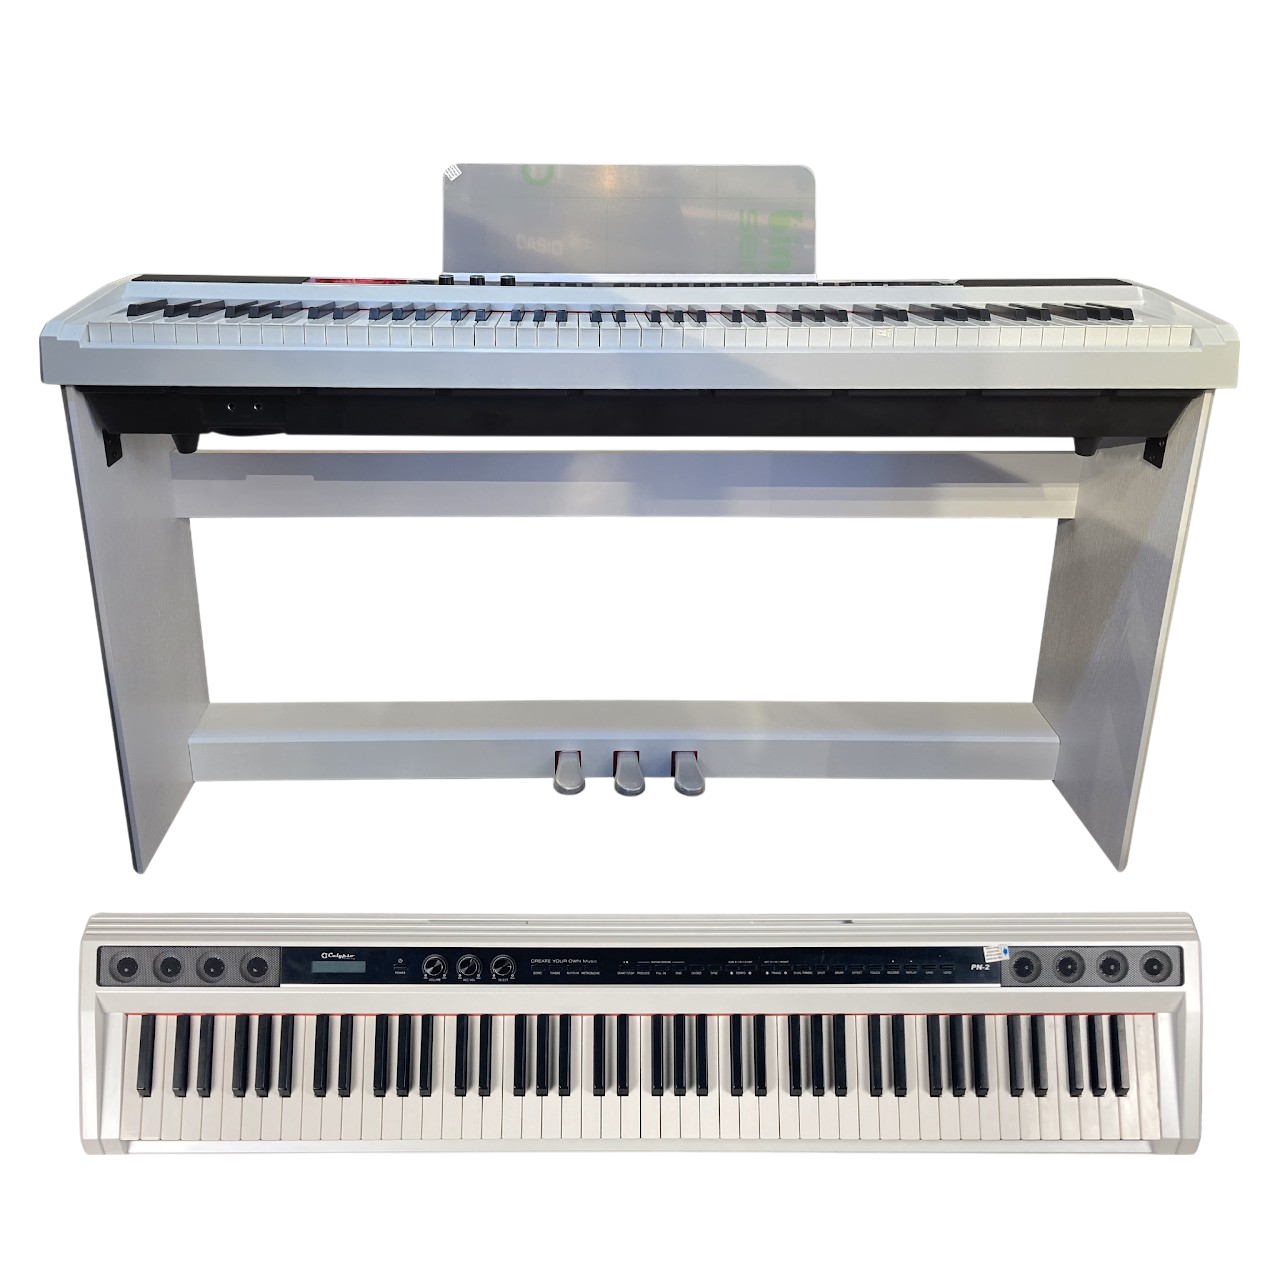
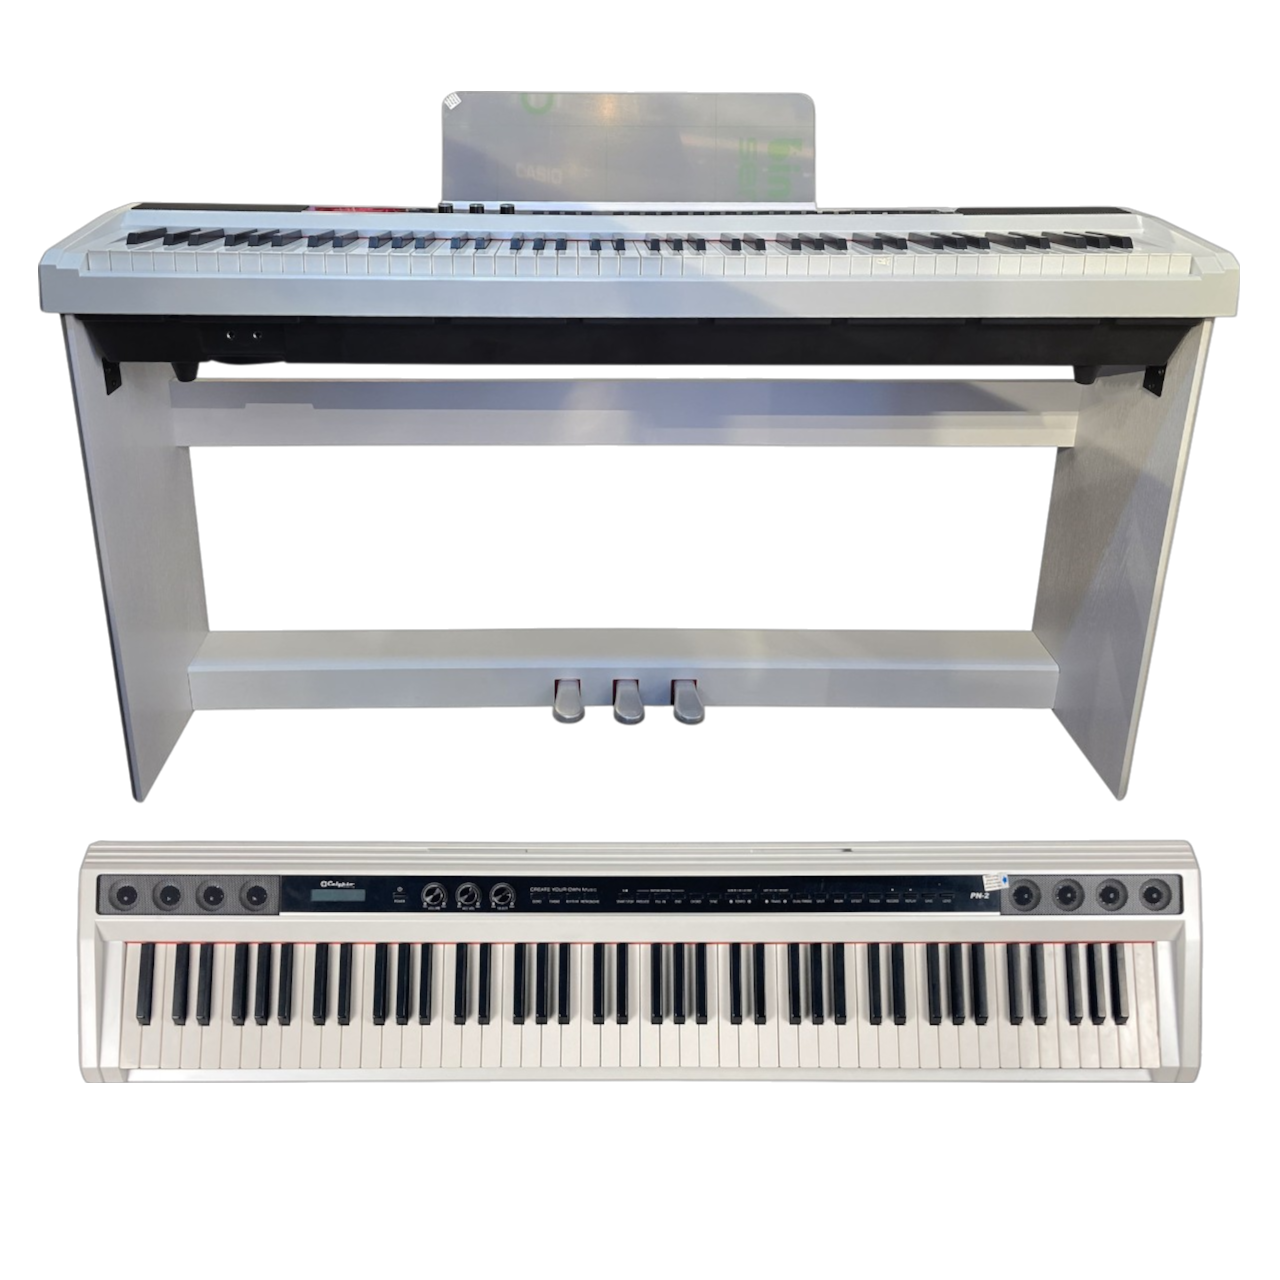
more adjustments

diff --git a/calypso-website/src/data/items.js b/calypso-website/src/data/items.js
@@ -371,7 +371,7 @@ const ITEMS = [
     pictureUrl: [],
   },
   {
-    name: "Calypso Folk (38 Inches)",
+    name: "Acoustic Guitar FG38",
     id: "FG38",
     description:
       "Immerse yourself in the rich, soulful melodies with the Guitar Calypso Folk (38 Inches). Its impeccable sound quality will transport you to a world of musical bliss. The comfortable size makes it perfect for musicians of all levels, while the classic design adds a touch of elegance to your performance. Elevate your music experience with this exceptional guitar today!",
@@ -380,7 +380,7 @@ const ITEMS = [
     pictureUrl: ["/images/guitars/Acoustic/FG38.png"],
   },
   {
-    name: "Calypso Folk 140MAS",
+    name: "Acoustic Guitar 140MAS",
     id: "140MAS",
     description:
       "Immerse yourself in the rich tones of the Guitar Calypso Folk 140MAS, crafted for both elegance and comfort. Made with durable materials, this guitar ensures a lasting musical companion for your creative journey. Elevate your playing experience with the perfect blend of style and functionality â€“ strum away with the Guitar Calypso Folk 140MAS!",
@@ -389,7 +389,7 @@ const ITEMS = [
     pictureUrl: ["/images/guitars/Acoustic/140MAS.png"],
   },
   {
-    name: "Calypso Folk Black (38 Inches)",
+    name: "Acoustic Guitar FG38-BK",
     id: "FG38-BK",
     description:
       "Unleash your musical creativity with the Guitar Calypso Folk Black! This stunning 38-inch guitar offers a versatile sound that will elevate your music to new heights. Its classic design exudes elegance, while the comfortable size makes it perfect for musicians of all levels. Dive into the world of music with the Guitar Calypso Folk Black â€“ a must-have for any aspiring guitarist!",
@@ -398,7 +398,7 @@ const ITEMS = [
     pictureUrl: ["/images/guitars/Acoustic/FG38-BK.png"],
   },
   {
-    name: "Calypso Folk Intermediate (41 Inches)",
+    name: "Acoustic Guitar FG41-INT",
     id: "FG41-INT",
     description:
       "Unleash your musical creativity with the Guitar Calypso Folk Intermediate (41 Inches). Experience its versatile sound that adapts to various music genres, making it a must-have for aspiring musicians. Crafted with precision and care, this guitar offers exceptional quality and durability. Elevate your playing experience with the comfortable size and superior craftsmanship of this instrument.",
@@ -407,7 +407,7 @@ const ITEMS = [
     pictureUrl: ["/images/guitars/Acoustic/FG41-INT.png"],
   },
   {
-    name: "Calypso Folk Intermediate (42 Inches)",
+    name: "Acoustic Guitar FG42-INT",
     id: "FG42-INT",
     description:
       "Unleash your musical creativity with the Guitar Calypso Folk Intermediate! Dive into a world of versatile sounds that will captivate your audience. Designed for ease of play, this 42-inch guitar offers a smooth playing experience for musicians of all levels. Crafted with durable construction, this guitar is built to withstand your musical journey. Elevate your music game and bring your melodies to life with the Guitar Calypso Folk Intermediate!",
@@ -416,7 +416,7 @@ const ITEMS = [
     pictureUrl: ["/images/guitars/Acoustic/FG42-INT.png"],
   },
   {
-    name: "Calypso Folk Intermediate Black (41 Inches)",
+    name: "Acoustic Guitar FG41-INT-BK",
     id: "FG41-INT-BK",
     description:
       "Experience the captivating melodies with the Guitar Calypso Folk Intermediate Black (41 Inches). This versatile instrument offers a rich and vibrant sound that will inspire your musical journey. Its comfortable size and sleek design make it a perfect choice for intermediate players looking to enhance their skills. Elevate your music with the Guitar Calypso Folk â€“ get ready to strum your way to new heights!",
@@ -425,7 +425,7 @@ const ITEMS = [
     pictureUrl: ["/images/guitars/Acoustic/FG41-INT-BK.png"],
   },
   {
-    name: "Calypso Folk Intermediate EQ Black (41 Inches)",
+    name: "Electro-Acoustic Guitar FG41-INT-EQ-BK",
     id: "FG41-INT-EQ-BK",
     description:
       "Unleash your musical creativity with the Guitar Calypso Folk Intermediate EQ Black! This 41-inch beauty offers a versatile sound that will elevate your playing experience to new heights. Designed for comfort and style, this guitar is the perfect companion for intermediate players looking to make a statement. Embrace the rhythm of the Calypso Folk and let your passion for music shine through!",
@@ -434,7 +434,7 @@ const ITEMS = [
     pictureUrl: ["/images/guitars/Acoustic/Electro/FG41-INT-EQ-BK.png"],
   },
   {
-    name: "Calypso Folk Intermediate EQ Black (42 Inches)",
+    name: "Electro-Acoustic Guitar FG42-INT-EQ-BK",
     id: "FG42-INT-EQ-BK",
     description:
       "Indulge in the vibrant tunes with the Guitar Calypso Folk Intermediate EQ Black (42 Inches). Experience a versatile sound that enhances your musical journey to new heights. The comfortable size and stylish design make this guitar a perfect companion for aspiring musicians. Elevate your performance and stand out with this exceptional instrument!",
@@ -443,7 +443,7 @@ const ITEMS = [
     pictureUrl: ["/images/guitars/Acoustic/Electro/FG42-INT-EQ-BK.png"],
   },
   {
-    name: "Calypso Folk Intermediate EQ Left Hand (41 Inches)",
+    name: "Electro-Acoustic Left Handed Guitar FG41-INT-EQ-LH",
     id: "FG41-INT-EQ-LH",
     description:
       "Unleash your musical prowess with this 41-inch Guitar Calypso Folk designed specifically for left-handed players. Boasting an EQ system for fine-tuned sound control, this guitar is perfect for intermediate musicians looking to elevate their skills. Embrace your unique style and sound with this exceptional left-handed guitar!",
@@ -452,7 +452,7 @@ const ITEMS = [
     pictureUrl: ["/images/guitars/Acoustic/Electro/FG41-INT-EQ-LH.png"],
   },
   {
-    name: "Calypso Folk Intermediate Left Hand (41 Inches)",
+    name: "Acoustic Left Handed Guitar FG41-INT-LH",
     id: "FG41-INT-LH",
     description:
       "Strum your way into the world of calypso folk with this 41-inch left-handed guitar designed for intermediate players. Embrace your unique style with this specially crafted instrument, perfect for those who march to the beat of their own tune. Elevate your musical journey with the soulful melodies you can create using this exceptional guitar!",
@@ -461,7 +461,7 @@ const ITEMS = [
     pictureUrl: ["/images/guitars/Acoustic/FG41-INT-LH.png"],
   },
   {
-    name: "Calypso Folk Intermediate Left Hand Natural (41 Inches)",
+    name: "Acoustic Left Handed Guitar FG41-INT-LH",
     id: "FG41-INT-LH-NAT",
     description: "",
     category: "GUITAR",
@@ -469,7 +469,7 @@ const ITEMS = [
     pictureUrl: ["/images/guitars/Acoustic/FG41-INT-2.png"],
   },
   {
-    name: "Calypso Folk Intermediate Slim EQ Black",
+    name: "Electro-Acoustic Slim Guitar FG41-INT-SLM-EQ-BK",
     id: "FG41-INT-SLM-EQ-BK",
     description:
       "Unleash your inner musician with the Guitar Calypso Folk Intermediate Slim EQ Black! Embrace the slim design and EQ functionality that enhances your playing experience. Perfect for those captivated by the calypso folk style, this guitar is a harmonious blend of style and functionality. Elevate your musical journey with this sleek and versatile instrument!",
@@ -478,7 +478,7 @@ const ITEMS = [
     pictureUrl: ["/images/guitars/Acoustic/Electro/FG41-INT-SLM-EQ-BK.png"],
   },
   {
-    name: "Calypso Folk Intermediate Slim EQ Black Redline (41 Inches)",
+    name: "Electro-Acoustic Redline Slim Guitar FG41-INT-SLM-EQ-BK-RedLine",
     id: "FG41-INT-SLM-EQ-BK-RedLine",
     description:
       "Unleash your musical creativity with the Guitar Calypso Folk Intermediate Slim EQ in Black Redline (41 Inches). Its sleek design not only catches the eye but also delivers a rich, resonant sound that will elevate your playing experience. With versatile EQ options, you can customize your sound to suit any musical style. Get ready to rock the stage with this exceptional guitar!",
@@ -489,7 +489,7 @@ const ITEMS = [
     ],
   },
   {
-    name: "Calypso Folk Intermediate Slim EQ (41 Inches)",
+    name: "Electro-Acoustic Slim Guitar FG41-INT-SLM-EQ",
     id: "FG41-INT-SLM-EQ",
     description:
       "Unleash your musical prowess with the Guitar Calypso Folk Intermediate Slim EQ! This 41-inch beauty boasts a sleek and slim design, perfect for players who appreciate comfort and style. Elevate your sound with the EQ feature, adding a whole new dimension to your music. Ideal for intermediate players seeking quality and performance, this guitar is a must-have for anyone looking to take their music to the next level.",
@@ -498,7 +498,7 @@ const ITEMS = [
     pictureUrl: ["/images/guitars/Acoustic/Electro/FG41-INT-SLM-EQ.png"],
   },
   {
-    name: "Calypso Folk Intermediate Slim EQ Left Hand (41 Inches)",
+    name: "Electro-Acoustic Left Handed Slim Guitar FG41-INT-SLM-EQ-LH",
     id: "FG41-INT-SLM-EQ-LH",
     description:
       "Unleash your musical creativity with the Guitar Calypso Folk Intermediate Slim EQ Left Hand (41 Inches). Designed specifically for left-handed players, this guitar features a slim profile that ensures maximum comfort during extended playing sessions. Enjoy the convenience of the built-in EQ, allowing you to fine-tune your sound effortlessly. Elevate your music journey with this exceptional left-handed guitar!",
@@ -507,7 +507,7 @@ const ITEMS = [
     pictureUrl: ["/images/guitars/Acoustic/Electro/FG41-INT-SLM-EQ-LH.png"],
   },
   {
-    name: "Calypso Folk Slim EQ (38 Inches)",
+    name: "Electro-Acoustic Slim Guitar FG38-SLM-EQ",
     id: "FG38-SLM-EQ",
     description:
       "Experience the harmonious blend of style and sound with the Guitar Calypso Folk Slim EQ. Its sleek design not only catches the eye but also delivers a rich, resonant sound quality that will captivate any music enthusiast. With versatile EQ options, you can customize your tone to suit your unique style and preferences. Elevate your musical journey with the Guitar Calypso Folk Slim EQ - a perfect companion for any aspiring musician!",
@@ -516,7 +516,7 @@ const ITEMS = [
     pictureUrl: ["/images/guitars/Acoustic/Electro/FG38-SLM-EQ.png"],
   },
   {
-    name: "Calypso Folk Slim EQ Black Left Hand (38 Inches)",
+    name: "Electro-Acoustic Left Handed Slim Guitar FG38-SLM-EQ-BK-LH",
     id: "FG38-SLM-EQ-BK-LH",
     description:
       "Discover the perfect harmony with the Guitar Calypso Folk Slim EQ Black Left Hand! Designed specifically for left-handed players, this 38-inch beauty boasts a slim EQ for effortless adjustments, ensuring you achieve your desired sound with ease. Embrace the unique calypso folk style and unleash your musical creativity in a whole new way!",
@@ -525,7 +525,7 @@ const ITEMS = [
     pictureUrl: ["/images/guitars/Acoustic/Electro/FG38-SLM-EQ-BK-LH.png"],
   },
   {
-    name: "Calypso Folk Slim EQ Left Hand (38 Inches)",
+    name: "Electro-Acoustic Left Handed Slim Guitar FG38-SLM-EQ-LH",
     id: "FG38-SLM-EQ-LH",
     description:
       "Unleash your musical creativity with the Guitar Calypso Folk Slim EQ Left Hand, a perfect companion for left-handed players. Its slim design makes it portable and easy to carry, allowing you to play your tunes anywhere. Customize your sound effortlessly with the built-in EQ feature. Elevate your music experience with this 38-inch beauty â€“ grab yours now and let your melodies shine!",
@@ -534,7 +534,7 @@ const ITEMS = [
     pictureUrl: ["/images/guitars/Acoustic/Electro/FG38-SLM-EQ-LH.png"],
   },
   {
-    name: "Calypso Folk Slim EQ Sunburn (38 Inches)",
+    name: "Electro-Acoustic Slim Guitar FG38-SLM-EQ-SB",
     id: "FG38-SLM-EQ-SB",
     description:
       "Strum your way to musical bliss with the Guitar Calypso Folk Slim EQ Sunburn. Its sleek design not only catches the eye but also delivers rich tones that will elevate your playing experience. With a built-in EQ, you can easily fine-tune your sound to perfection. Unleash your creativity and dive into the world of music with this exceptional 38-inch guitar!",
@@ -543,7 +543,7 @@ const ITEMS = [
     pictureUrl: ["/images/guitars/Acoustic/Electro/FG38-SLM-EQ-SB.png"],
   },
   {
-    name: "Guitar Calypso Folk Slim Sunburn EQ (40 Inches)",
+    name: "Electro-Acoustic Slim Guitar FG40-088-SLM-SB-EQ",
     id: "FG40-088-SLM-SB-EQ",
     description:
       "Strum in style with the Guitar Calypso Folk Slim Sunburn EQ! Its slim design offers both comfort and elegance, perfect for passionate musicians. The eye-catching sunburst finish adds a touch of flair, while the built-in EQ ensures your tunes sound just right. Elevate your musical journey with this 40-inch beauty today!",
@@ -634,7 +634,7 @@ const ITEMS = [
     pictureUrl: [],
   },
   {
-    name: "Calypso Folk Intermediate EQ Guitar (41 Inches)",
+    name: "Electro-Acoustic Guitar FG41-INT-EQ",
     id: "FG41-INT-EQ",
     description:
       "Introducing the FG41-INT-EQ: an exceptional acoustic guitar designed for versatile performance. Crafted with a spruce top and linden back/sides, this model delivers a rich, resonant tone suitable for various musical styles. The dyed fingerboard and half-cast machine head ensure durability and smooth playability. Finished in a sophisticated brown color, this guitar exudes timeless elegance. Equipped with an MT-3 EQ, it offers precise sound control, making it an ideal choice for musicians seeking flexibility and quality in their sound.",
@@ -643,7 +643,7 @@ const ITEMS = [
     pictureUrl: ["/images/guitars/Acoustic/Electro/FG41-INT-EQ.png"],
   },
   {
-    name: "Calypso Folk Intermediate Slim Guitar (41 Inches)",
+    name: "Electro-Acoustic Slim Guitar FG41-INT-SLM-EQ",
     id: "FG41-INT-SLM-EQ",
     description:
       "Introducing the FG41-INT-SLM-EQ: a versatile acoustic guitar crafted for exceptional performance. Featuring a spruce top and linden back/sides, this model delivers a rich, resonant tone perfect for various musical styles. The dyed fingerboard and half-cast machine head ensure durability and smooth playability. Finished in a sophisticated brown color, this guitar exudes timeless elegance. With its slim design and equipped with an MT-3 EQ, it offers precise sound control and comfortable playability, making it an ideal choice for musicians of all levels.",
@@ -841,7 +841,7 @@ const ITEMS = [
     pictureUrl: [],
   },
   {
-    name: "Calypso Digital Piano DP-4",
+    name: "Digital Piano",
     id: "DP-4",
     description: "",
     category: "PIANO",
@@ -849,7 +849,7 @@ const ITEMS = [
     pictureUrl: ["/images/pianos/DP4.png"],
   },
   {
-    name: "Calypso Digital Piano DP-71",
+    name: "Digital Piano",
     id: "DP-71",
     description: "",
     subCategory: "DIGITAL",
@@ -857,24 +857,24 @@ const ITEMS = [
     pictureUrl: ["/images/pianos/DP-71.png"],
   },
   {
-    name: "Calypso Digital White Piano DP-21",
-    id: "DP-21",
-    subCategory: "DIGITAL",
-    description: "",
-    category: "PIANO",
-    pictureUrl: ["/images/pianos/DP-21.png"],
-  },
-  {
-    name: "Calypso Digital White Piano PN-2",
+    name: "Digital White Piano",
     id: "PN-2",
     subCategory: "DIGITAL",
     description: "",
     category: "PIANO",
     pictureUrl: ["/images/pianos/PN-2.png"],
   },
+  {
+    name: "Digital White Piano",
+    id: "DP-21",
+    subCategory: "DIGITAL",
+    description: "",
+    category: "PIANO",
+    pictureUrl: ["/images/pianos/DP-21.png"],
+  },
 
   {
-    name: "Calypso PK-1 Digital Keyboard",
+    name: "Digital Keyboard",
     id: "PK1",
     description:
       '"Introducing the Calypso PK-1, a cutting-edge digital piano designed for musicians on the move. Available in sleek black, Red or pristine white, this portable digital piano combines convenience with professional-grade features.\n\nFeaturing a semi-weight standard keyboard powered by the Pure France DREAM 5 sound source, the Calypso PK-1 delivers exceptional sound quality and realistic playing experience with 128-note polyphony. Its extensive library boasts 200 tones, including 128 GM standard tones, and 60 dynamic demos to inspire your creativity.\n\nEquipped with a powerful record/play function and Bluetooth connectivity, you can effortlessly connect your phone or computer to play songs and integrate with compatible learning software. The auto sleep mode activates after 30 minutes of inactivity, conserving energy without interrupting your flow.\n\nEnhance your practice sessions with the built-in metronome offering nine different rhythms and a tempo range of 20 to 280 beats per minute. Plus, take advantage of the four sets of storage memory function keys for easy access to your favorite settings.\n\nAdditional features include split note, dual, reverb level, chorus level, percussion, USB jack for unlimited song recording storage, headphone outputs, MIDI IN/OUT, and audio in/out for seamless connectivity to your devices.\n\nPowered by a 15V3A adapter and featuring 12W speakers, the Calypso PK-1 ensures powerful sound projection for your performances. Plus, with the option to add a sustain pedal (choose from three pedals), you can truly customize your playing experience.\n\nExperience the ultimate blend of portability and performance with the Calypso PK-1 digital piano – your perfect musical companion wherever you go."',
@@ -883,7 +883,7 @@ const ITEMS = [
     pictureUrl: ["/images/pianos/PK1.png"],
   },
   {
-    name: "Calypso PN-2 Digital Keyboard",
+    name: "Digital Keyboard",
     id: "PN-2",
     description:
       "Calypso PN-2 Digital Keyboard offers a wide range of instrument voices and rhythms in a lightweight, portable design. With intuitive controls and built-in speakers, it’s perfect for musicians on the go. Elevate your music-making experience with the PN-2!",
@@ -892,7 +892,7 @@ const ITEMS = [
     pictureUrl: [],
   },
   {
-    name: "Calypso DP15 Digital Piano",
+    name: "Digital Piano",
     id: "DP-15",
     description: "",
     category: "PIANO",
@@ -900,7 +900,7 @@ const ITEMS = [
     pictureUrl: ["/images/pianos/DP15.png"],
   },
   {
-    name: "Calypso DP81 Digital Piano",
+    name: "Digital Piano",
     id: "DP-81",
     description: "",
     category: "PIANO",

diff --git a/calypso-website/src/containers/SearchBar.jsx b/calypso-website/src/containers/SearchBar.jsx
@@ -8,12 +8,23 @@ export default function SearchBar({ items }) {
   const [value, setValue] = useState("");
   const [filteredItems, setFilteredItems] = useState([]);
   useEffect(() => {
-    const result = items.filter(
-      (item) =>
-        item.name.toLowerCase().includes(value.toLowerCase()) ||
-        item.description.toLowerCase().includes(value.toLowerCase()) ||
-        item.id.toLowerCase().includes(value.toLowerCase())
-    );
+    const searchTerms = value
+      .toLowerCase()
+      .split(" ")
+      .filter((term) => term.length > 0);
+
+    const result = items.filter((item) => {
+      const itemName = item.name.toLowerCase();
+      const itemDescription = item.description.toLowerCase();
+      const itemId = item.id.toLowerCase();
+
+      return searchTerms.every(
+        (term) =>
+          itemName.includes(term) ||
+          itemDescription.includes(term) ||
+          itemId.includes(term)
+      );
+    });
     setFilteredItems(result);
   }, [value]);
   return (

diff --git a/calypso-website/src/components/item/Item.jsx b/calypso-website/src/components/item/Item.jsx
@@ -4,8 +4,17 @@ function Item({ item }) {
   return (
     <div>
       <li key={item.id} className="items-display__item">
-        <img src={item.pictureUrl} />
-        <h3 className="item-name">{item.name}</h3>
+        <img
+          src={
+            item.pictureUrl !== ""
+              ? item.pictureUrl
+              : "../../assets/no-image.png"
+          }
+        />
+        <div className="titles">
+          <h3 className="item-name">{item.name}</h3>
+          <h3 className="item-name sub">{item.id}</h3>
+        </div>
       </li>
     </div>
   );

diff --git a/calypso-website/src/components/Accessories.css b/calypso-website/src/components/Accessories.css
@@ -11,8 +11,6 @@
   justify-content: center;
 }
 .items-display img {
-  /* margin: 2rem 2rem 2rem 2rem; */
-  max-width: 100%;
   height: 17rem;
   display: block;
   object-fit: cover;
@@ -35,7 +33,13 @@
   color: rgba(218, 165, 32, 1);
 }
 .piano img {
-  height: 200px;
+  height: 375px;
+  width: 350px;
+  background-size: 37rem;
+}
+.piano li {
+  max-width: none;
+  width: 420px;
 }
 .brass img {
   height: 200px;

diff --git a/calypso-website/src/components/item/Item.css b/calypso-website/src/components/item/Item.css
@@ -13,9 +13,19 @@
   background-color: lightgray;
   color: azure;
 }
+.item-name sub {
+  padding: 0;
+  margin: 0;
+}
 .item-name {
   text-align: center;
   color: rgba(218, 165, 32, 1);
+  font-size: 20px;
+  padding: 0;
+  margin: 0;
+}
+.titles {
+  margin-top: 2rem;
 }
 .items-display__item:hover .item-name {
   color: white;
